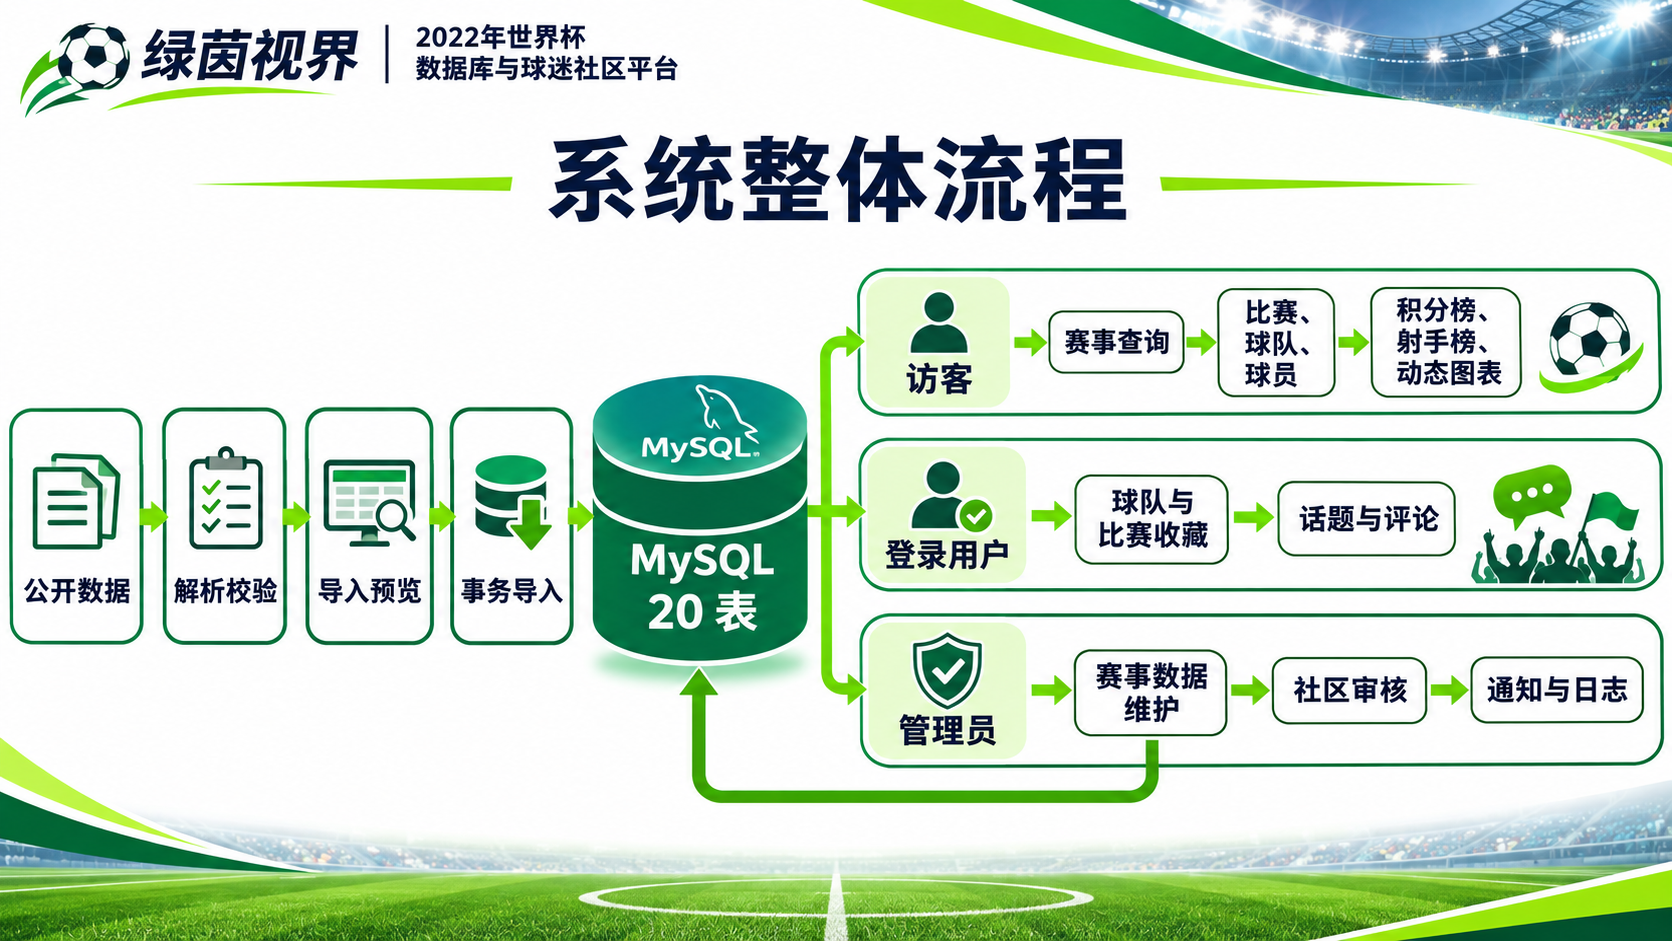
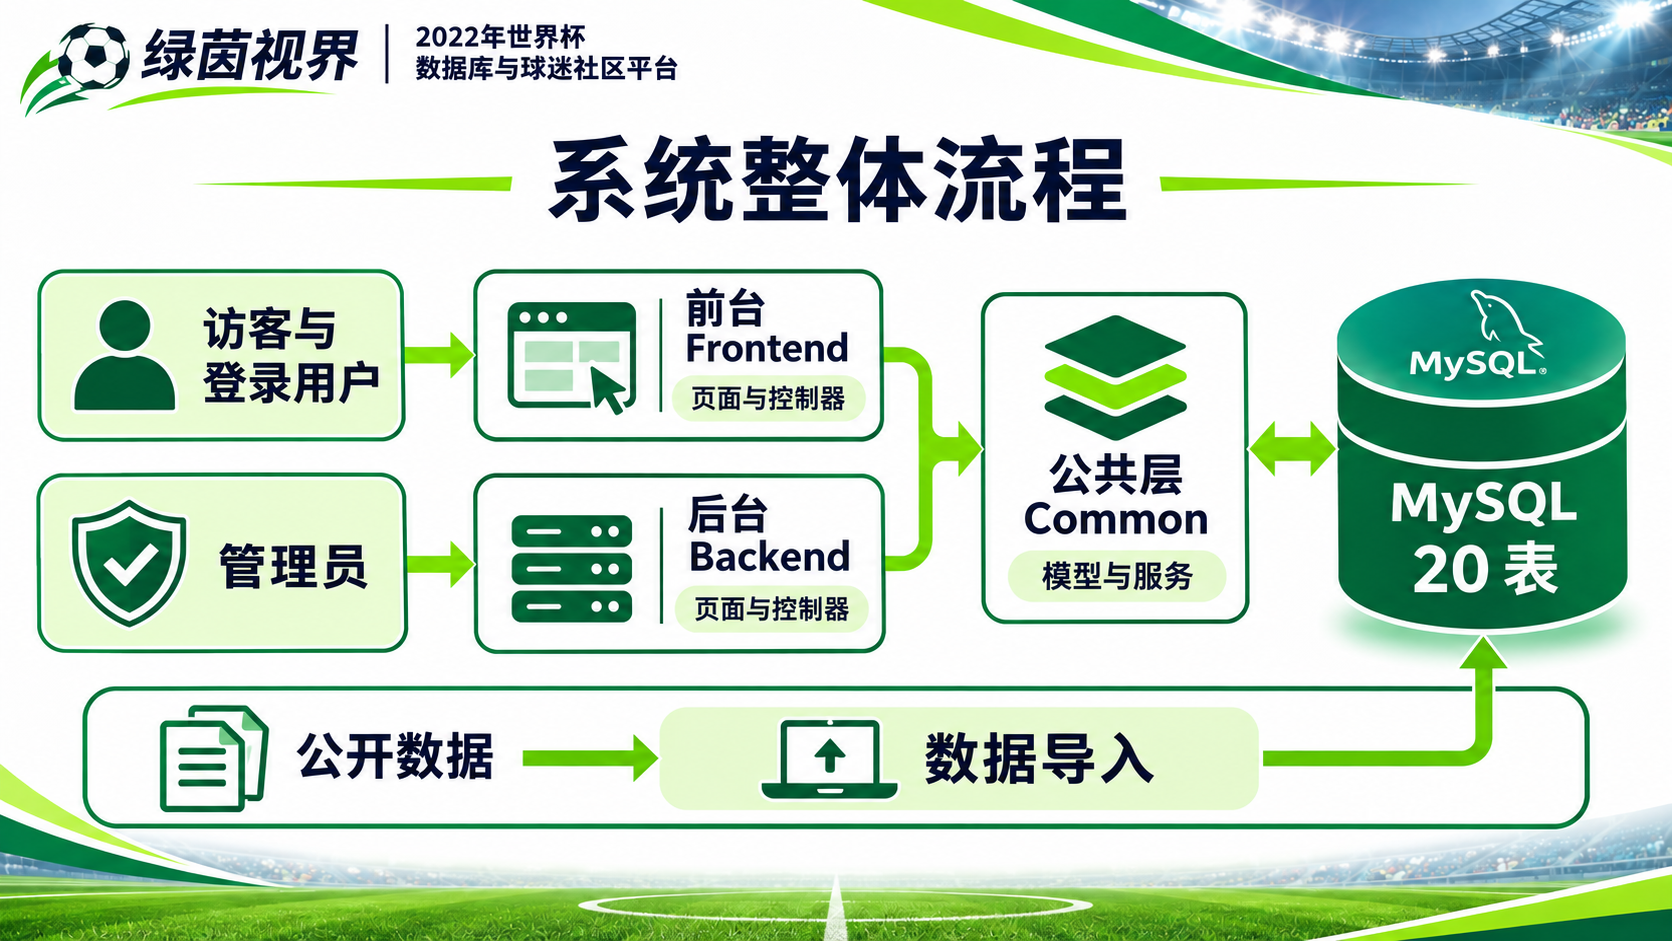
调整整体流程为前后台架构链路

diff --git a/figures/37_system_flow_slide_prompt.md b/figures/37_system_flow_slide_prompt.md
@@ -1,7 +1,11 @@
 # 系统整体流程图生图记录
 
-使用内置生图功能制作 `37_system_flow_slide.png`。流程内容根据仓库中的 `figures/绿茵数据团队_系统模块图(2413581_2411302).mmd`、`figures/绿茵数据团队_数据导入流程图(2413581_2411302).mmd` 及现有业务代码整理。该图是 16:9 位图，可作为演示文稿整页图片，图中文字不可直接编辑；可编辑的原始 Mermaid 设计图仍保留在 `figures/`。
+使用内置生图功能制作 `37_system_flow_slide.png`。初版按模块功能展开；用户反馈需要前台、后台、公共层和数据库的整体链路，并要求把数据导入合为一个模块。当前图片已按此反馈重画。该图是 16:9 位图，可作为演示文稿整页图片，图中文字不可直接编辑；对应的可编辑 Mermaid 图源为 `绿茵数据团队_系统整体流程图(2413581_2411302).mmd`。
 
-## 最终提示词
+## 初版提示词
 
 Use case: infographic-diagram. Create one complete 16:9 Chinese presentation slide image titled「系统整体流程」for the project「绿茵视界」, a 2022 World Cup database and fan community platform. Match the established slide style: crisp white background, deep navy typography, emerald football-pitch green, vivid lime accents, elegant corner swooshes and a subtle stadium atmosphere. Make it look like a polished classroom project presentation, not a UI screenshot. The diagram must be the main focus, with large Chinese labels and clear directional arrows. Use a clean left-to-right flow with the data source at left, one central MySQL database cylinder, and three clearly separated user/service branches at right. Include tasteful illustrative pictograms for source documents, validation checklist, database, match ball, fan discussion, and admin shield; these illustrations should support the flow without crowding it. Exact data pipeline:「公开数据」→「解析校验」→「导入预览」→「事务导入」→「MySQL 20 表」. From the central database, show three labeled branches: branch 1「访客」→「赛事查询」→「比赛、球队、球员」→「积分榜、射手榜、动态图表」; branch 2「登录用户」→「球队与比赛收藏」→「话题与评论」; branch 3「管理员」→「赛事数据维护」→「社区审核」→「通知与日志」. Indicate that administrator maintenance writes back to the central database with a clear return arrow. Use exactly these labels; do not invent extra features, match scores, dates, statistics, fictional teams or extra text. Maintain enough white space and high contrast for classroom projection. Do not make the text tiny; if needed, shorten only line breaks, never change wording. No watermark.
+
+## 当前版本编辑提示词
+
+Redraw this entire 16:9 slide as a HIGH-LEVEL SYSTEM ARCHITECTURE FLOW, not a feature/function list. Keep only its established style: crisp white background, deep navy text, emerald stadium green, vivid lime arrows, subtle football field and corner swooshes. Replace the old dense diagram completely. Title stays「系统整体流程」. Use a balanced, spacious left-to-right architecture with WIDE, equally readable modules: on the left two large user groups「访客与登录用户」and「管理员」; in the middle two stacked application modules「前台 Frontend」with small sublabel「页面与控制器」and「后台 Backend」with small sublabel「页面与控制器」; to their right one shared module「公共层 Common」with sublabel「模型与服务」; at far right one clear database cylinder「MySQL 20 表」. Draw arrows from visitors and members to Frontend, from administrators to Backend, from both Frontend and Backend to Common, and a two-way arrow between Common and MySQL. Along the bottom make ONE wide standalone module labeled「数据导入」 between「公开数据」and the same MySQL database, with clear arrows 公开数据 → 数据导入 → MySQL. This bottom import section must be broad and visually balanced, not four narrow boxes. Keep all user and app boxes large enough to read from a classroom screen. Use a few tasteful pictograms (person, admin shield, browser window, backend server, shared layers, database) but prioritize exact flow and labels. NO labels for individual site functions such as 比赛、球队、积分、收藏、社区审核. No extra feature boxes, no invented data, no scores, no tiny text, no watermark. The graphic must visually communicate frontend/backend/common/database architecture and the separate one-module data import path.

diff --git a/data/team/README.md b/data/team/README.md
@@ -5,4 +5,4 @@
 
 项目需求页的生图版本保存在 `figures/36_requirements_slide.png`。示意画面不含具体赛事比分或统计数字，避免将插画误认为真实赛果。
 
-系统整体流程图的生图版本保存在 `figures/37_system_flow_slide.png`，呈现公开数据导入、MySQL 20 表与三类用户的业务路径；精确可编辑的流程图源文件仍为 `figures/*.mmd`。
+系统整体流程图的生图版本保存在 `figures/37_system_flow_slide.png`，呈现用户到前台/后台、公共层、MySQL 20 表的架构链路，以及合并后的数据导入模块；对应的可编辑图源为 `figures/绿茵数据团队_系统整体流程图(2413581_2411302).mmd`。
